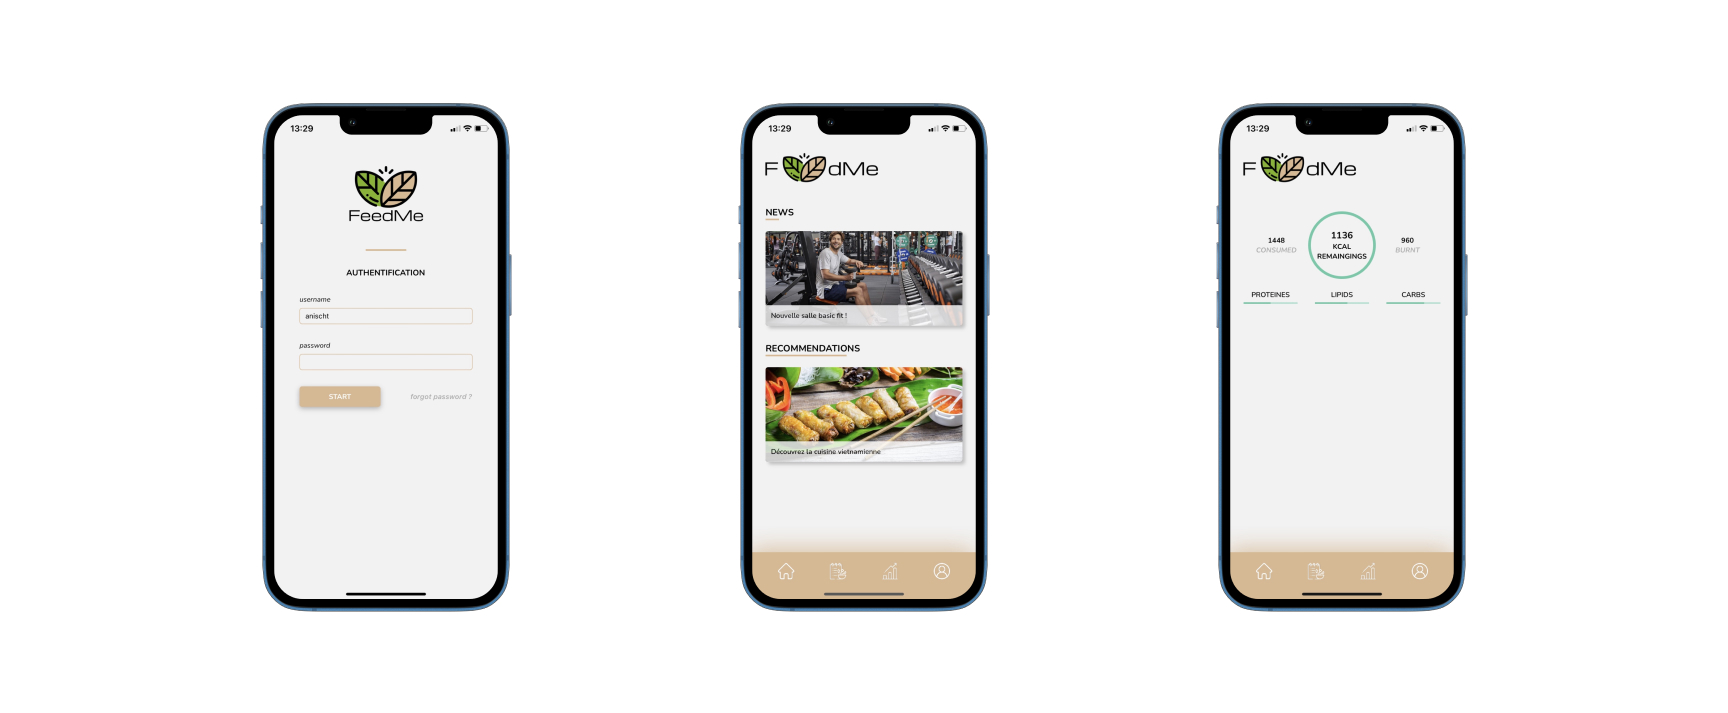
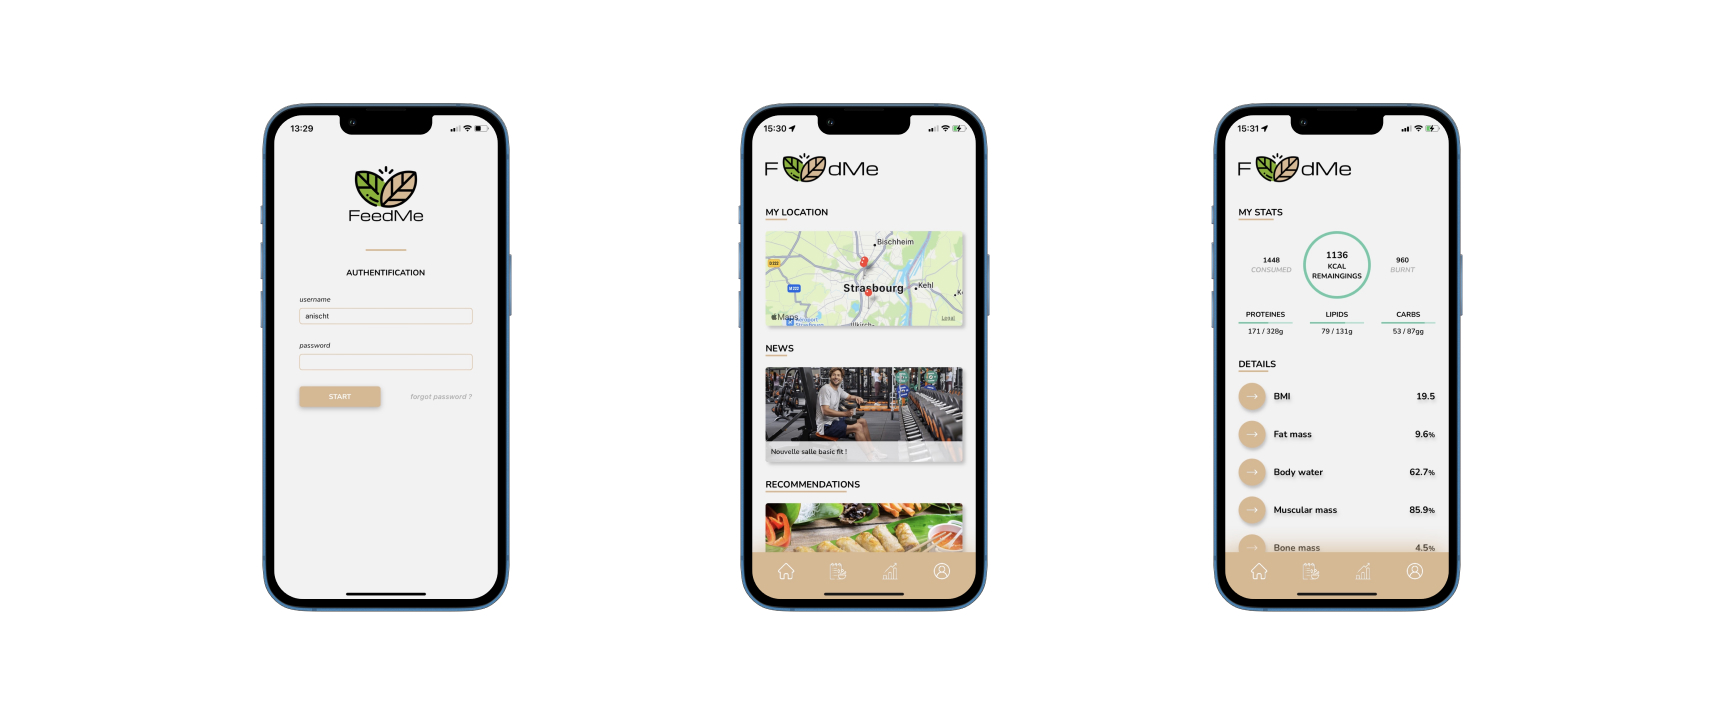
pres pictures & english stats

diff --git a/screens/stats.js b/screens/stats.js
@@ -37,11 +37,11 @@ export default function Stats() {
             <ScrollView style={styles.details}>
                 <Text style={styles.subtitle}>DETAILS</Text>
                 <View style={{ height: 3, backgroundColor: config.mainColor, width: 55, marginBottom: 20 }}/>
-                <DetailsBlock name="IMC" value="19.5" />
-                <DetailsBlock name="Masse grasse" value="9.6" percent />
-                <DetailsBlock name="Masse hydrique" value="62.7" percent />
-                <DetailsBlock name="Masse musculaire" value="85.9" percent />
-                <DetailsBlock name="Masse osseuse" value="4.5" percent />
+                <DetailsBlock name="BMI" value="19.5" />
+                <DetailsBlock name="Fat mass" value="9.6" percent />
+                <DetailsBlock name="Body water" value="62.7" percent />
+                <DetailsBlock name="Muscular mass" value="85.9" percent />
+                <DetailsBlock name="Bone mass" value="4.5" percent />
             </ScrollView>
         </SafeAreaView>
     )

diff --git a/screens/home.js b/screens/home.js
@@ -6,10 +6,6 @@ import * as Location from 'expo-location';
 
 export default function Home() {
 
-    const [ locationResult, setLocation ] = useState( null )
-    const [ mapRegion, setRegion ] = useState( null )
-    const [ hasLocationPermissions, setLocationPermission ] = useState( false )
-
     useEffect(() => {
         (async () => {
             let { status } = await Location.requestForegroundPermissionsAsync();
@@ -120,9 +116,9 @@ const styles = StyleSheet.create({
             height: 5,
         },
         shadowOpacity: 0.2,
+        marginBottom: 20,
     },
     map: {
-        marginBottom: 20,
         height: 175,
         borderRadius: 5,
     }    
